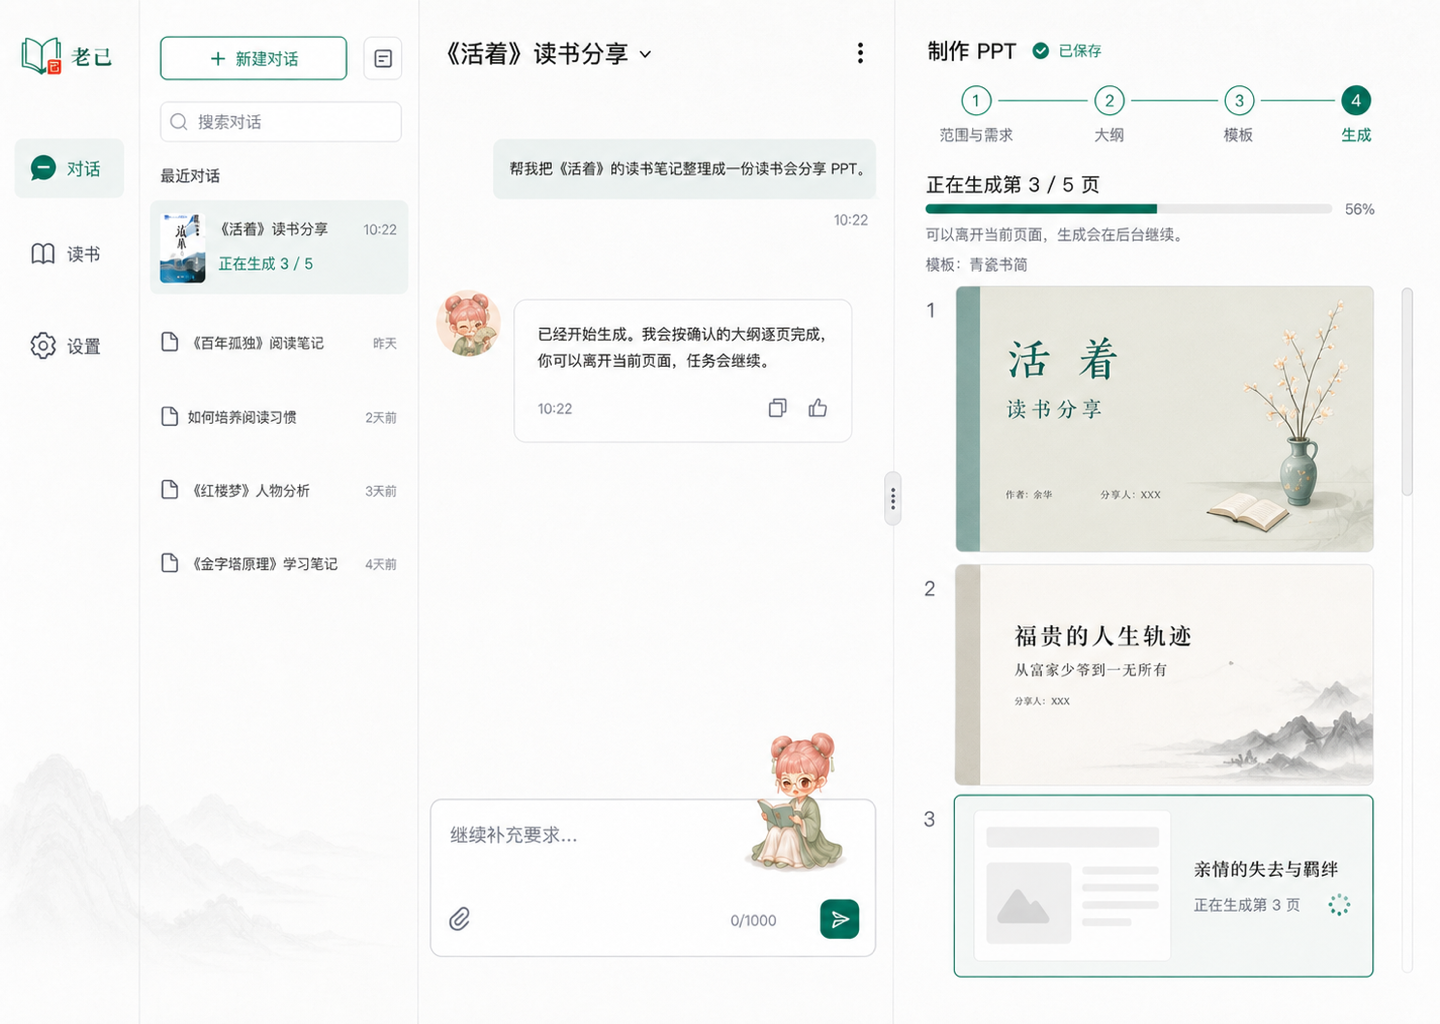
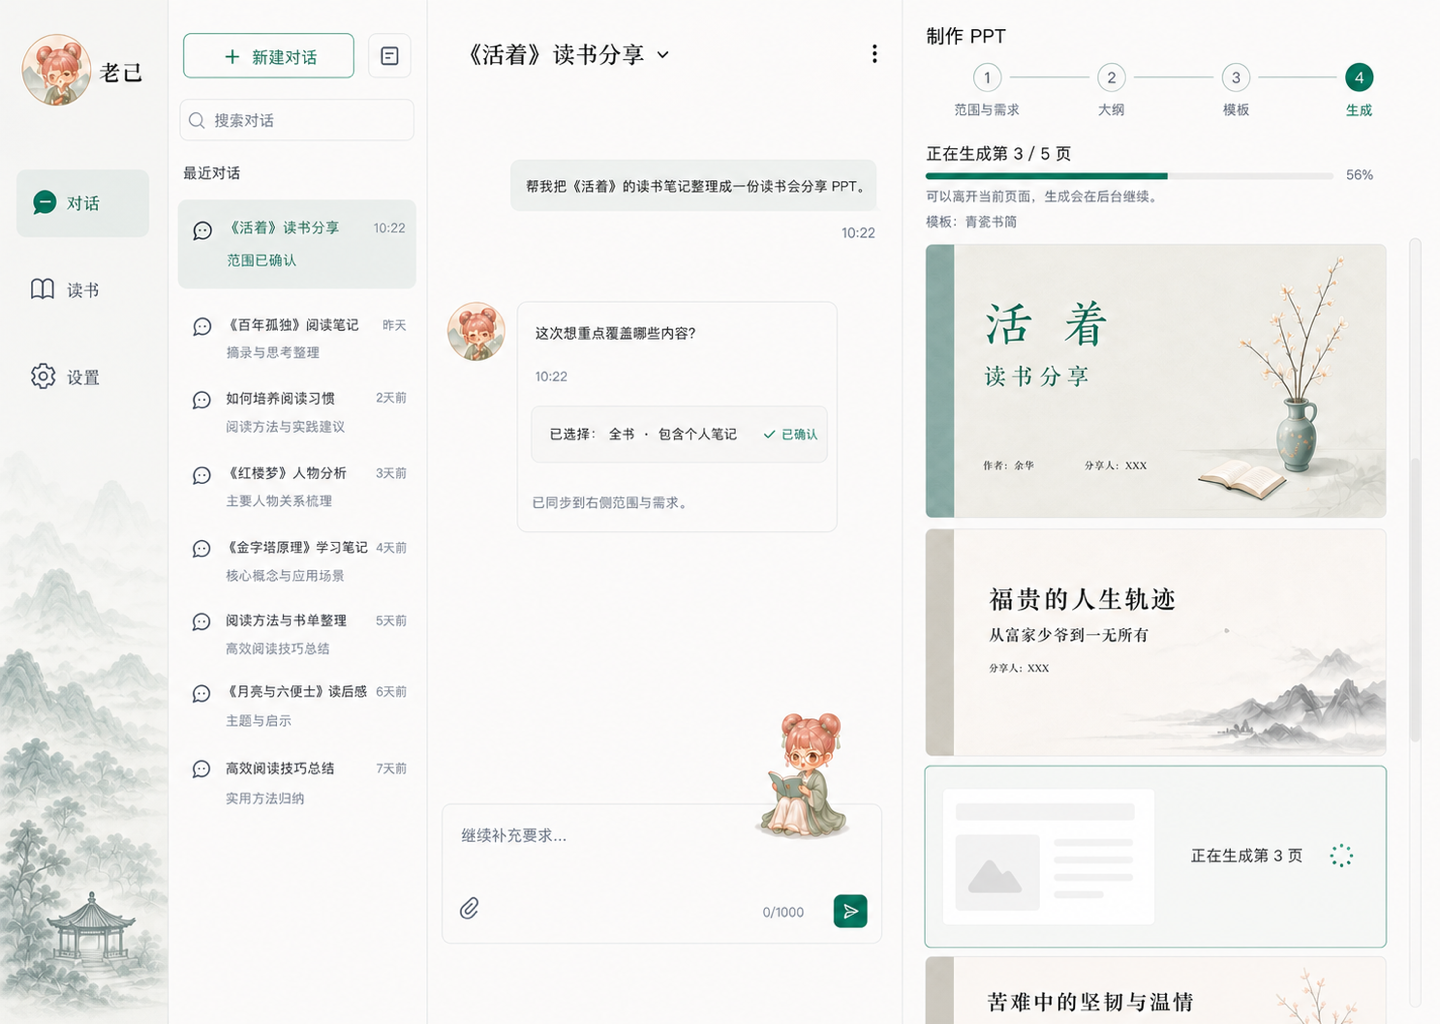
design: approve desktop ppt workspace references

diff --git a/redesign-v2/design-reference/README.md b/redesign-v2/design-reference/README.md
@@ -25,6 +25,8 @@
 
 | 顺序 | 界面 | 文件 | 原稿 | 可采用 | 不得照搬 |
 | --- | --- | --- | --- | --- | --- |
+| 04 | 桌面 Web / PPT·大纲编辑 | [`04-ppt-outline-editing.png`](04-ppt-outline-editing.png) | [`desktop-outline-feishu-v3.png`](../output/ui-design-preview/product-design/ppt-flow/desktop-outline-feishu-v3.png) | 共享复古外壳、四阶段页头、无工具栏和无编辑器框的连续分层正文、原位光标与轻量拖拽提示、按输入上下文自动继承层级，以及稳定的返回与确认操作 | 示例书名、大纲与会话内容，固定层级数量，富文本格式工具栏、页卡和增删页操作，图像模型生成的头像 / 桌宠 / 图标 / 字体像素、截图尺寸和整张图作为运行时素材 |
+| 06 | 桌面 Web / PPT·生成中 | [`03-generation-progress-waterfall-v2.png`](03-generation-progress-waterfall-v2.png) | [`desktop-generation-waterfall-v2.png`](../output/ui-design-preview/product-design/ppt-flow/desktop-generation-waterfall-v2.png) | 共享复古外壳、生成阶段与后台继续提示、连续单列大尺寸 `16:9` 页面瀑布流、已完成页面与同尺寸当前页骨架，以及工作区内独立滚动 | 示例页数、百分比、模板与 PPT 内容，图像模型生成的页面 / 头像 / 桌宠 / 图标 / 字体像素、固定截图尺寸，以及缩略图列表、轮播或把整张图作为运行时素材 |
 | 08 | 桌面 Web / 书籍详情·PPT 作品 | [`08-book-detail-ppt-works.png`](08-book-detail-ppt-works.png) | [`book-detail-ppt-works-reference-v1.png`](../output/ui-design-preview/product-design/book-detail/book-detail-ppt-works-reference-v1.png) | 紧凑书籍信息条与标签层级、最多两列的 `16:9` 作品网格、生成中与已完成项的统一比例、作品名 / 日期或状态 / 下载操作层级 | 示例文案与日期、生成内容、截图中的头像和桌宠像素、偏暖或偏黄背景 |
 | 10 | 桌面 Web / 书籍详情·老己笔记与划线想法 | [`10-book-detail-laoji-notes.png`](10-book-detail-laoji-notes.png) | [`book-detail-laoji-notes-reference-v1.png`](../output/ui-design-preview/product-design/book-detail/book-detail-laoji-notes-reference-v1.png) | 两个标签共享的单列全宽内容流、充足上下留白、细分隔线、行尾操作、轻量引用竖线与元信息；老己笔记保留唯一“新建笔记”主操作 | 标题式首行或独立标题字段、重复“我的想法”标签或笔形图标、截图中的示例文案 / 时间 / 头像 / 桌宠像素、偏暖或偏黄背景 |
 | 11 | 微信小程序 / 会话抽屉打开态 | [`11-mobile-conversation-drawer.png`](11-mobile-conversation-drawer.png) | [`04-mountain-pavilion-refinement.png`](../work/mobile-design/visual-exploration-v2/04-mountain-pavilion-refinement.png) | 会话抽屉的单任务层级、顶部品牌 / 新建对话 / 搜索顺序、无卡片最近会话列表、充足留白、底部导航、小程序大圆角，以及列表下方贴底并向上消隐的远山亭子视觉落款 | 图像模型重绘的头像与图标、示例会话与时间、首条会话的书签形标记和时间线圆点、被遮罩主画布中的示例内容、截图像素尺寸 |
@@ -48,6 +50,7 @@
 | 30 | 微信小程序 / 会话·底部半屏多选 | [`30-mobile-conversation-selection-sheet.png`](30-mobile-conversation-selection-sheet.png) | [`01-selection-sheet.png`](../output/ui-design-preview/product-design/mobile-conversation/imagegen-v3-bottom-sheet/01-selection-sheet.png) | 原会话留在遮罩后的空间关系、单一大圆角底部半屏表面、开放式多选列表、成熟复选反馈、底部安全区内唯一“确认”主操作，以及趴宠依附面板左上沿的关系 | 示例书名、消息、选项、时间与任务进度，固定面板高度，图像模型生成的头像 / 趴宠 / 图标 / 字体像素、截图尺寸和整张图作为运行时素材 |
 | 31 | 微信小程序 / 会话·确认后普通输入 | [`31-mobile-conversation-confirmed-input.png`](31-mobile-conversation-confirmed-input.png) | [`02-confirmed-normal-input.png`](../output/ui-design-preview/product-design/mobile-conversation/imagegen-v3-bottom-sheet/02-confirmed-normal-input.png) | 选择层关闭后的轻量范围摘要与“修改”入口、紧凑吸底输入面、独立图片入口、稳定发送操作、完整趴宠和下部山亭留白 | 示例范围、消息、书名、时间与任务进度，图像模型生成的头像 / 趴宠 / 图标 / 字体像素、截图尺寸和整张图作为运行时素材 |
 | 32 | 微信小程序 / 会话·图片附件输入 | [`32-mobile-conversation-image-attachments.png`](32-mobile-conversation-image-attachments.png) | [`03-image-attachment-input.png`](../output/ui-design-preview/product-design/mobile-conversation/imagegen-v3-bottom-sheet/03-image-attachment-input.png) | 图片在文字输入行上方组成同一输入面、不显示容量计数、浅色轻量移除操作、底边与发送按钮保持锚定，以及趴宠完整覆盖输入框左上边界 | 示例范围、缩略图、消息、书名、时间与任务进度，图中偏大的缩略图和输入面高度、色块式范围摘要，图像模型生成的头像 / 趴宠 / 图标 / 字体像素、截图尺寸和整张图作为运行时素材 |
+| 33 | 桌面 Web / PPT·生成失败 | [`33-desktop-ppt-generation-failed.png`](33-desktop-ppt-generation-failed.png) | [`desktop-generation-failure-waterfall-v2.png`](../output/ui-design-preview/product-design/ppt-flow/desktop-generation-failure-waterfall-v2.png) | 共享复古外壳、已完成页面继续保留、失败页占用原 `16:9` 位置、原位错误说明、“重新生成 / 修改大纲”主次操作，以及右上低频更多菜单承载删除 | 示例页数、百分比、错误原因与 PPT 内容，图像模型生成的页面 / 头像 / 桌宠 / 图标 / 字体像素、固定截图尺寸，把删除做成第三个并列按钮或把整张图作为运行时素材 |
[1 lines of base64/hex data omitted]
 
[1 lines of base64/hex data omitted]
@@ -70,6 +73,8 @@
 
[1 lines of base64/hex data omitted]
 
[1 lines of base64/hex data omitted]
+
 ## 已认可视觉元素，不是运行时资产
 
 | 顺序 | 元素 | 文件 | 原稿 | 可采用 | 不得照搬 |
@@ -82,19 +87,17 @@
 
 | 顺序 | 界面 | 文件 | 原稿 / 同字节来源 | 仅可参考 |
 | --- | --- | --- | --- | --- |
-| 04 | 桌面 Web / PPT 大纲编辑工作区 | [`04-ppt-outline-editing.png`](04-ppt-outline-editing.png) | [`main-refined-hybrid-v1.png`](../output/ui-design-preview/product-design/main-interface/main-refined-hybrid-v1.png) | 行式 / 连续分层大纲、阶段和操作结构 |
 | 05 | 桌面 Web / PPT 模板选择 | [`02-template-selection.png`](02-template-selection.png) | [`02-template-selection.png`](../output/ui-design-preview/product-design/ppt-flow/02-template-selection.png) | 模板预览、选中反馈和底部操作结构 |
-| 06 | 桌面 Web / PPT 生成中 | [`03-generation-progress-waterfall-v2.png`](03-generation-progress-waterfall-v2.png) | [`03-generation-progress-waterfall-v2.png`](../output/ui-design-preview/product-design/ppt-flow/03-generation-progress-waterfall-v2.png) | 连续大图瀑布流、当前页骨架和生成进度结构 |
 | 07 | 桌面 Web / 微信读书书籍详情 | [`07-weread-book-detail.png`](07-weread-book-detail.png) | — | 紧凑书籍信息条、PPT 入口、标签与工具区层级、选区工具面、桌宠与气泡位置；产品内容和背景色按 `SPEC.md`、`DESIGN.md`、`DESIGN-WEB.md` |
 
-04–06 缺少或偏离完整视觉定稿中的复古共享外壳，尤其不能继承其书页 Logo、空白左栏、旧头像、会话封面和过淡绿色。实现桌面 Web 时保留上述流程结构，同时以 `02-conversation-and-scope.png`、[`../DESIGN.md`](../DESIGN.md) 和 [`../DESIGN-WEB.md`](../DESIGN-WEB.md) 重建页面主体与左侧远山亭子背景。
+05 仍只确认模板选择的流程 / 结构，不能继承旧稿中的书页 Logo、空白左栏、旧头像、会话封面和过淡绿色。实现桌面 Web 时保留模板预览、选中反馈和底部操作结构，同时以 `02-conversation-and-scope.png`、[`../DESIGN.md`](../DESIGN.md) 和 [`../DESIGN-WEB.md`](../DESIGN-WEB.md) 重建页面主体与左侧远山亭子背景。
 
[2 lines of base64/hex data omitted]
 
[1 lines of base64/hex data omitted]
 
 ## PPT 视觉缺口
 
-桌面 Web 目前只有 02 所示“对话 + 范围与需求”具备完整视觉定稿；04、05、06 只完成流程 / 结构确认，仍缺套用共享复古外壳后的完整视觉稿，桌面端生成失败和生成完成工作区也尚无认可页面参考。书籍详情的“PPT 作品”标签已有 08 认可页面参考，但它不替代桌面生成工作区的完成态定稿；对应旧探索稿仍在 [`../output/ui-design-preview/product-design/ppt-flow/`](../output/ui-design-preview/product-design/ppt-flow/)，不得复制回来补齐流程或作为实现依据。
+桌面 Web 的 04 大纲、06 生成中和 33 生成失败已经有套用共享复古外壳的认可页面参考；05 模板选择仍只有流程 / 结构参考，生成完成工作区仍无认可页面参考。02 所示“对话 + 范围与需求”继续作为共享外壳的完整视觉定稿，08 书籍详情“PPT 作品”不替代桌面生成完成工作区；对应旧探索稿仍在 [`../output/ui-design-preview/product-design/ppt-flow/`](../output/ui-design-preview/product-design/ppt-flow/)，不得复制回来补齐流程或作为实现依据。
 
 微信小程序 PPT 流程的视觉缺口已经由 23–29 七张认可页面参考补齐；后续设计与开发按 `DESIGN-MINIAPP.md` 和本索引列出的采用点实施，不从桌面流程图或更早的会话截图反向推断。

diff --git a/PROJECT_STATUS.md b/PROJECT_STATUS.md
@@ -5,7 +5,7 @@
 ## 当前目标与里程碑
 
 - 当前开发版本为 `redesign-v2`。
-- 认可参考图已覆盖账户入口、对话 / 范围、统一书架、设置、微信小程序核心阅读与会话局部状态及微信小程序 PPT 全流程；桌面 Web 的 01–03、09 已有完整视觉定稿，桌面 PPT 流程中仅 02（对话与范围需求）具备完整视觉定稿，04–06 仍是流程 / 结构参考，桌面生成失败与完成工作区尚无认可页面参考（详见 [`design-reference/README.md`](redesign-v2/design-reference/README.md)），技术设计与当前原型尚未开始。
+- 认可参考图已覆盖账户入口、对话 / 范围、统一书架、设置、微信小程序核心阅读与会话局部状态及微信小程序 PPT 全流程；桌面 Web 的 01–03、09 已有完整视觉定稿，桌面 PPT 的 04 大纲、06 生成中和 33 生成失败已有认可页面参考，05 模板选择仍只有流程 / 结构参考，生成完成工作区仍无认可页面参考（详见 [`design-reference/README.md`](redesign-v2/design-reference/README.md)），技术设计与当前原型尚未开始。
 - 微信小程序通用会话的底部半屏多选、确认后普通输入和图片附件输入已经由 30–32 三张认可参考补齐；下一可验收里程碑由用户选择继续收口其他视觉缺口，或另行确认进入技术设计与当前原型。
 
 ## 已确认决定
@@ -34,16 +34,16 @@
 
 ## 进行中工作包
 
-- 桌面 PPT 视觉补齐：首轮候选因共享外壳偏差而否决；现有“大纲连续分层编辑”`v3`、生成中瀑布流 `v2`、生成失败瀑布流 `v2` 三张 `1440×1024` 候选。大纲 `v3` 已去除富文本工具栏与编辑器框，改为直接原位层级编辑，并按用户整屏参考降低左侧山亭墨色；三张均等待用户逐图确认，确认前不进入有效参考索引。
+- 桌面 PPT 视觉补齐：大纲连续分层编辑、生成中瀑布流和生成失败瀑布流三张 `1440×1024` 页面参考已经用户确认并进入有效参考索引；当前视觉缺口收窄为 05 模板选择完整页面参考和生成完成工作区页面参考。
 - 桌宠运行时资产：已按 12 号趴卧参考、正式角色母版和桌面坐姿参考完成坐姿与趴卧两次候选调用；人物与姿态已贴近参考，但两张 `1024×1024` PNG 均无 Alpha 通道且把棋盘格写入像素，未通过运行时资产验收，不进入 `assets/mascot/`。
 - 技术设计尚未开始；桌面 PPT 候选不阻塞架构方案准备，但桌面 PPT 工作区最终视觉验收须等待逐图确认，正式透明桌宠仍待取得。
 
 ## 最近验证证据
 
[4 lines of base64/hex data omitted]
-- 2026-08-22：已确认 01 号桌面登录完整视觉定稿中的紧凑账户区为有效基线，并用 `mobile-auth-login-slogan-v2.png` 替换 21 号登录页有效版本；同时补齐 03、09、04–06 五张参考图的尺寸与 SHA-256，04–06 的原稿 / 同字节来源已在参考索引登记。
+- 2026-08-22：已确认 01 号桌面登录完整视觉定稿中的紧凑账户区为有效基线，并用 `mobile-auth-login-slogan-v2.png` 替换 21 号登录页有效版本；03、09 与仍为流程 / 结构参考的 05 已补齐尺寸、SHA-256 和原稿 / 同字节来源，04 与 06 的当前有效证据以本轮认可页面参考登记为准。
 - 2026-08-22：用户明确确认当前 Figma 中的微信小程序 PPT 全流程可作为项目参考图；已从确认节点重新导出 23–29 七张 `430×932` PNG，逐图登记适用范围、采用点、不得照搬项、原稿节点和 SHA-256。
 - 2026-08-22：用户复审 13 号会话参考后撤回结构化选择、确认按钮和输入框高度样式；已明确保留外壳结构并将失效局部从可采用项移入不得照搬项。
 - 2026-08-22：用户对照原图与首版 Figma 推荐模块后，确认原图的整页构图、青瓷层次、非对称留白、山亭背景和桌宠融入感必须保留；首版通用设置列表仅保留交互不变量，不作为后续视觉方向。
@@ -68,8 +68,8 @@
 
 ## 阻塞
 
-- 桌面 PPT 候选等待用户逐图确认；进入原型或实现前仍需取得并确认真正含 Alpha 通道的透明桌宠运行时资产。
+- 进入原型或实现前仍需取得并确认真正含 Alpha 通道的透明桌宠运行时资产；桌面 PPT 的模板选择和生成完成可在不阻塞技术设计的前提下继续补齐页面参考。
 
 ## 下一步
 
-- 先由用户确认三张桌面 PPT 候选是否进入有效参考索引；两张桌宠候选只能用于核对角色与姿态，不能升格为正式资产。完成视觉裁决后再决定是否进入技术设计与当前原型。
+- 可选择继续补齐桌面 PPT 的模板选择与生成完成页面参考，或直接进入技术设计；两张桌宠候选只能用于核对角色与姿态，不能升格为正式资产。
